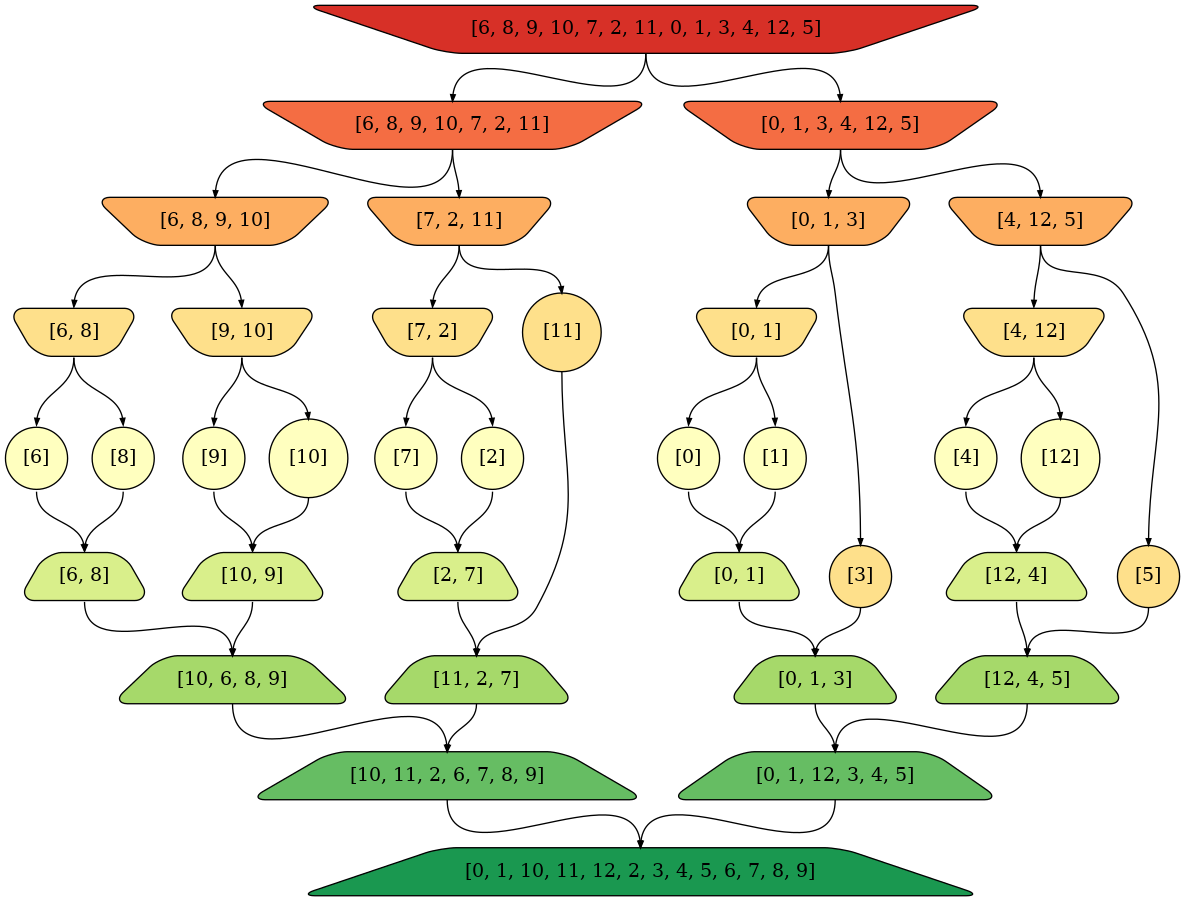
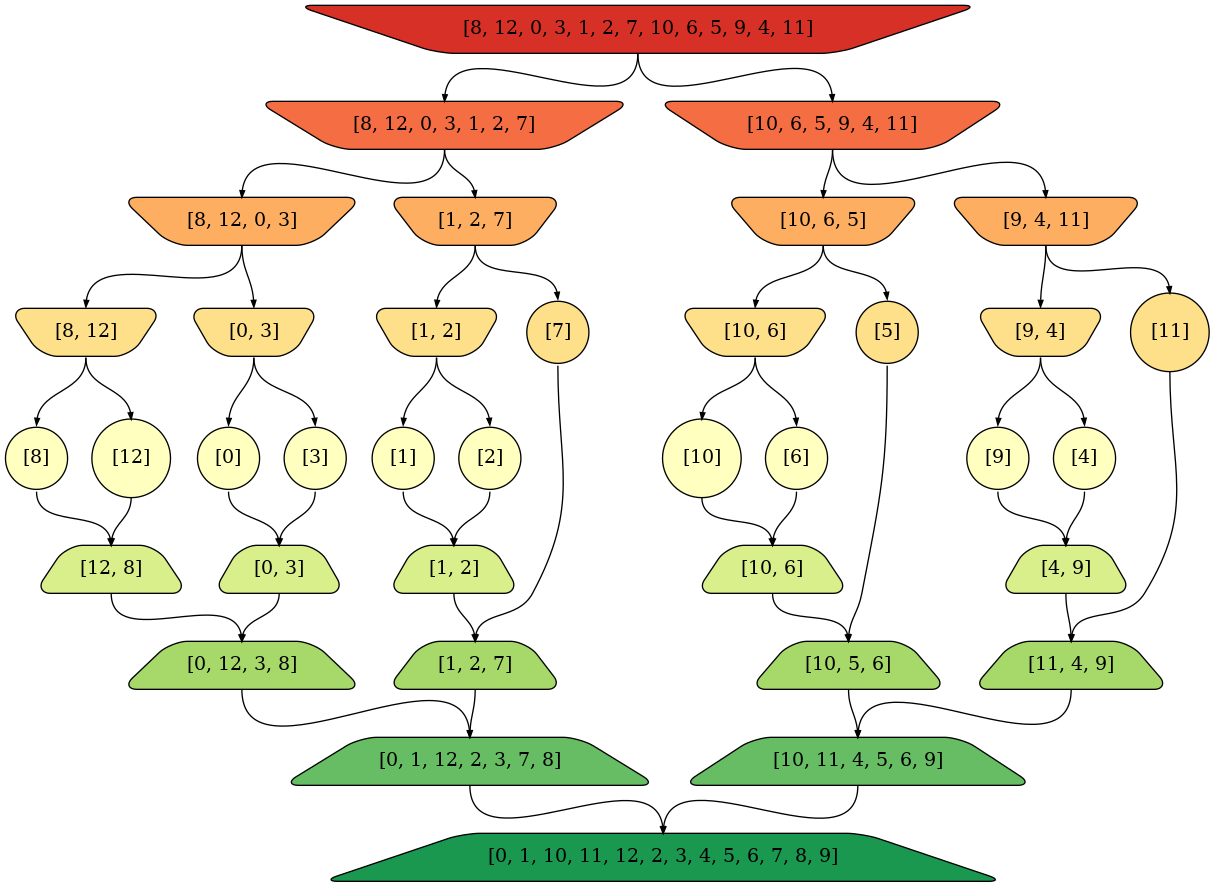
rank same sur profondeurs égales

Changed region(s): [[0.0, 0.0, 0.9992, 1.0], [0.7181, 0.4566, 0.7494, 0.5479], [0.2498, 0.0, 0.3122, 0.0304]]

diff --git a/trifusionviz/trifusionviz.py b/trifusionviz/trifusionviz.py
@@ -10,24 +10,31 @@ import math
 class Noeud:
     numero = 0
     profondeur_max = 0
-    dico_noeuds_profondeur = {}
+    liste_noeuds = []
 
     def __init__(self, contenu, profondeur):
         self.numero = str(Noeud.numero)
         Noeud.numero += 1
-        if profondeur in Noeud.dico_noeuds_profondeur:
-            Noeud.dico_noeuds_profondeur[profondeur].append(self)
-        else:
-            Noeud.dico_noeuds_profondeur[profondeur] = [self]
+
         self.liste = contenu
         self.contenu = str(contenu)
+        
         if len(contenu) == 1:
             self.shape = "circle"
         elif profondeur <= Noeud.profondeur_max / 2:
             self.shape = "invtrapezium"
         else:
             self.shape = "trapezium"
+
         self.couleur = str(profondeur)
+
+        self.dico = {"numero": int(self.numero),
+                     "contenu": contenu,
+                     "profondeur": profondeur,
+                     "de": None,
+                     "vers": None}
+
+        Noeud.liste_noeuds.append(self)
 
     def visu(self, sousgraphe):
         sousgraphe.node(self.numero,
@@ -86,8 +93,13 @@ def fusion(gauche, droite, fonction_ordre):
 class trifusionviz:
     def __init__(self, liste):
         self.graphe = graphviz.Digraph(engine="dot")
+        # init classe noeud
+        Noeud.liste_noeuds = []
+        Noeud.numero = 0
+        # 1 en trop car une profondeur manquante : celle de la
+        # condtion de terminaison
         self.nb_couleurs = 1 + 2 * math.ceil(math.log2(len(liste)))
-        Noeud.profondeur_max = self.nb_couleurs
+        Noeud.profondeur_max = self.nb_couleurs + 1
         self.fonction_ordre = None
         self.graphe.attr("node", colorscheme=f"rdylgn{self.nb_couleurs}")
         self.graphe.attr("node", style="filled, rounded")
@@ -97,17 +109,7 @@ class trifusionviz:
 
     def sortie(self, nom_fichier, format="pdf"):
         self._tri_fusion(self.racine)
-        #
-        # pour régler le rank : ne créer les noeuds qu'après les
-        # avoir tous trouvés mais... refonte complète ?? car les
-        # arcs doivent aussi être définis après coup !
-        #
-        # for profondeur in Noeud.dico_noeuds_profondeur:
-        #     for noeud in Noeud.dico_noeuds_profondeur[profondeur]:
-        #         with self.graphe.subgraph() as s:
-        #             s.attr(rank="same")
-        #             pass 
-        #
+        self._trace()
         self.graphe.render(filename=nom_fichier, format=format)
 
     def _tri_fusion(self, noeud, profondeur=1):
@@ -118,29 +120,33 @@ class trifusionviz:
         iMilieu = (len(liste) + 1) // 2
         g = liste[:iMilieu]
         d = liste[iMilieu:]
-
         og = Noeud(g, profondeur + 1)
         od = Noeud(d, profondeur + 1)
-
-        # dv = graphviz.Digraph()
-        dv = self.graphe
-        og.visu(dv)
-        od.visu(dv)
-        Arc(noeud, og).visu(dv)
-        Arc(noeud, od).visu(dv)
-        # self.graphe.subgraph(dv)
 
         ng = self._tri_fusion(og, profondeur + 1)
         nd = self._tri_fusion(od, profondeur + 1)
         f = fusion(ng.liste, nd.liste, self.fonction_ordre)
-
         nf = Noeud(f, self.nb_couleurs - profondeur + 1)
 
-        # cb = graphviz.Digraph()
-        cb = self.graphe
-        nf.visu(cb)
-        Arc(ng, nf).visu(cb)
-        Arc(nd, nf).visu(cb)
-        # self.graphe.subgraph(cb)
+        og.dico["de"] = noeud.dico["numero"]
+        od.dico["de"] = noeud.dico["numero"]
+        ng.dico["vers"] = nf.dico["numero"]
+        nd.dico["vers"] = nf.dico["numero"]
 
         return nf
+
+    def _trace(self):
+        # clusters des noeuds avec la même profondeur
+        for i in range(Noeud.profondeur_max + 1):
+            with self.graphe.subgraph(name=str(i)) as prof:
+                prof.attr(rank="same")
+                for n in Noeud.liste_noeuds:
+                    if n.dico["profondeur"] == i:
+                        n.visu(prof)
+
+        # les arcs
+        for n in Noeud.liste_noeuds:
+            if n.dico['de'] is not None:
+                Arc(Noeud.liste_noeuds[n.dico['de']], n).visu(self.graphe)
+            if n.dico['vers'] is not None:
+                Arc(n, Noeud.liste_noeuds[n.dico['vers']]).visu(self.graphe)

diff --git a/setup.py b/setup.py
@@ -5,17 +5,17 @@ with open('README.md') as f:
 
 setup(
     name='trifusionviz',
-    version='0.1',
-    description='tri fusion visuel',
+    version='0.2',
+    description='illustration du tri fusion',
     long_description_content_type='text/markdown',
     long_description=long_description,
     url='https://twitter.com/david_cobac',
     author='David COBAC',
     author_email='david.cobac@gmail.com',
     license='CC-BY-NC-SA',
-    keywords=['merge sort', 
+    keywords=['merge sort',
     	      'sort',
-              'tri'
+              'tri',
               'tri fusion',
               'graphviz'],
     packages=find_packages(),

diff --git a/exemple_script.py b/exemple_script.py
@@ -1,0 +1,14 @@
+import trifusionviz as tfv
+import random
+
+liste = list(range(13))
+random.shuffle(liste)
+
+t = tfv.trifusionviz(liste)
+# sortie pdf
+t.sortie("exemple_sortie")
+
+u = tfv.trifusionviz(liste)
+u.fonction_ordre = lambda x, y: str(x) < str(y)
+# sortie png
+u.sortie("exemple_sortie_lexico", "png")

diff --git a/trifusionviz/__init__.py b/trifusionviz/__init__.py
@@ -1,13 +1,13 @@
 # -*- coding: utf-8 -*-
 from .trifusionviz import *
 
-version = '0.1'
+version = '0.2'
 
 if __name__ == "__main__":
     import random
 
 
-    liste = list(range(13))
+    liste = list(range(17))
     random.shuffle(liste)
 
     t = trifusionviz(liste)

diff --git a/README.md b/README.md
@@ -12,7 +12,7 @@ $ pip3 install trifusionviz
 import trifusionviz as tfv
 import random
 
-liste = list(range(13))
+liste = list(range(17))
 random.shuffle(liste)
 
 t = tfv.trifusionviz(liste)
